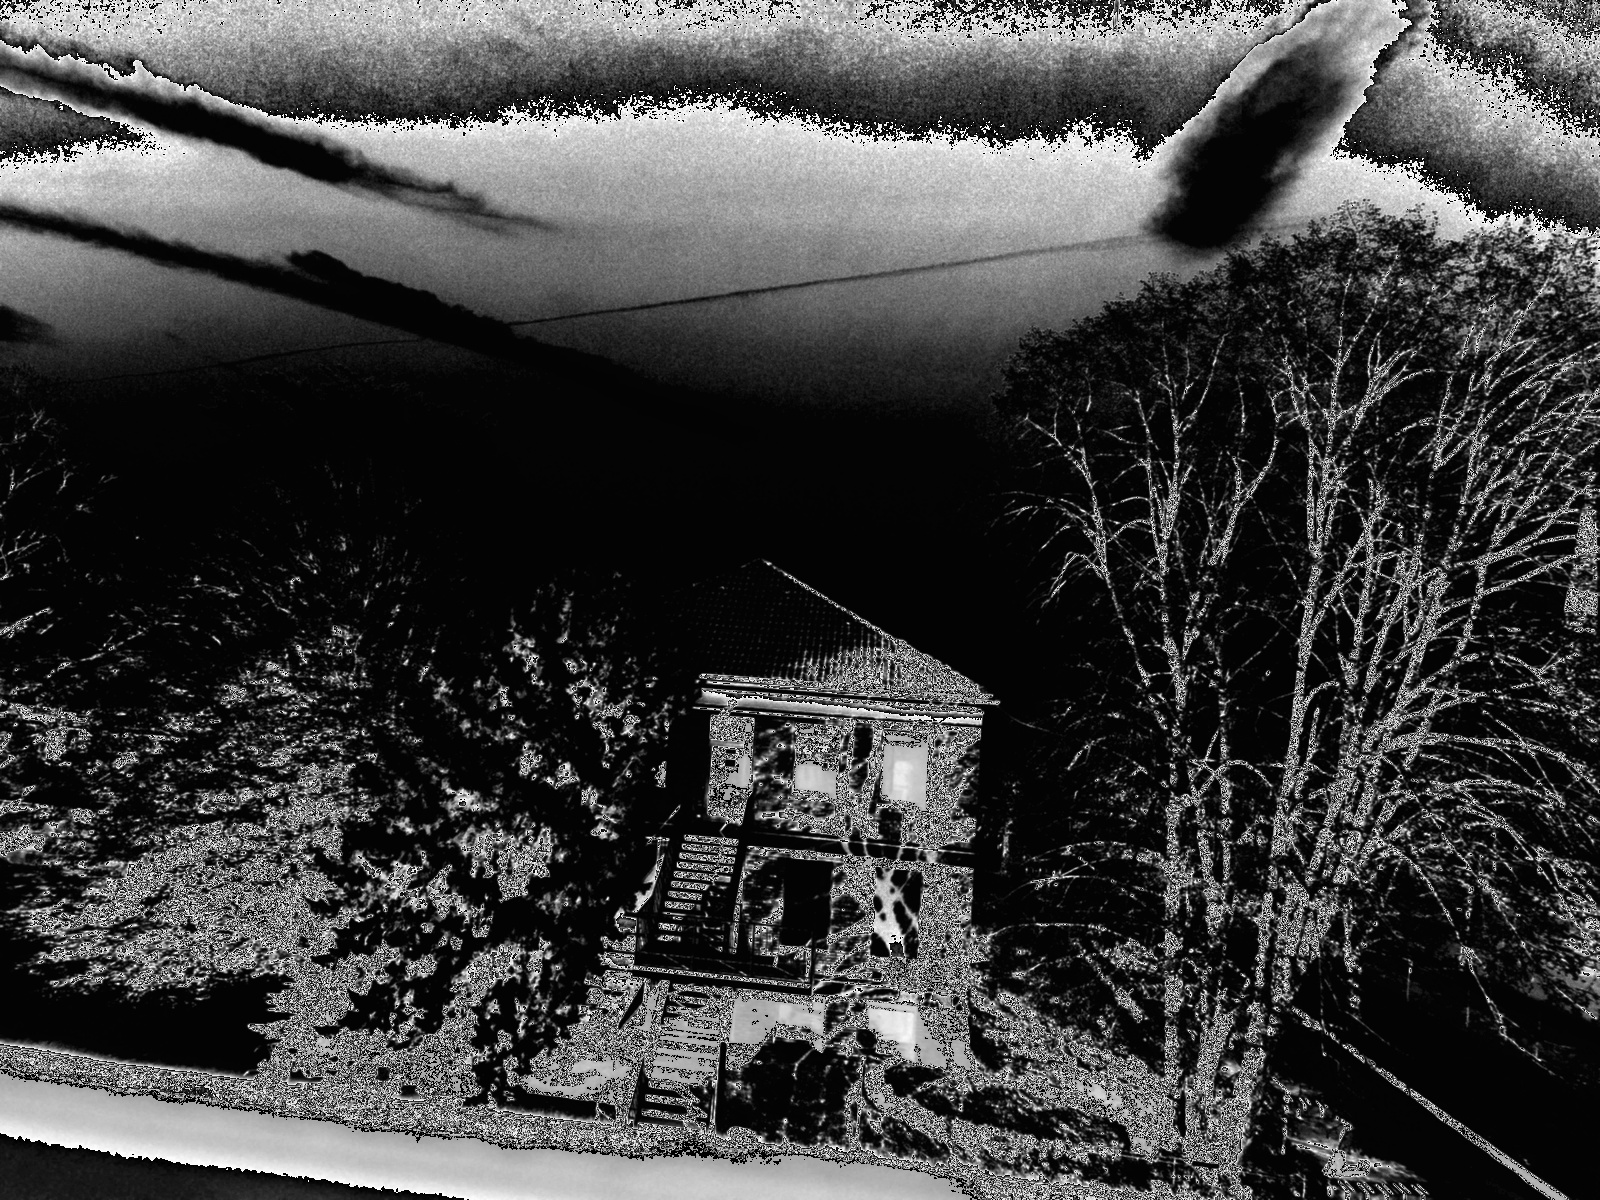
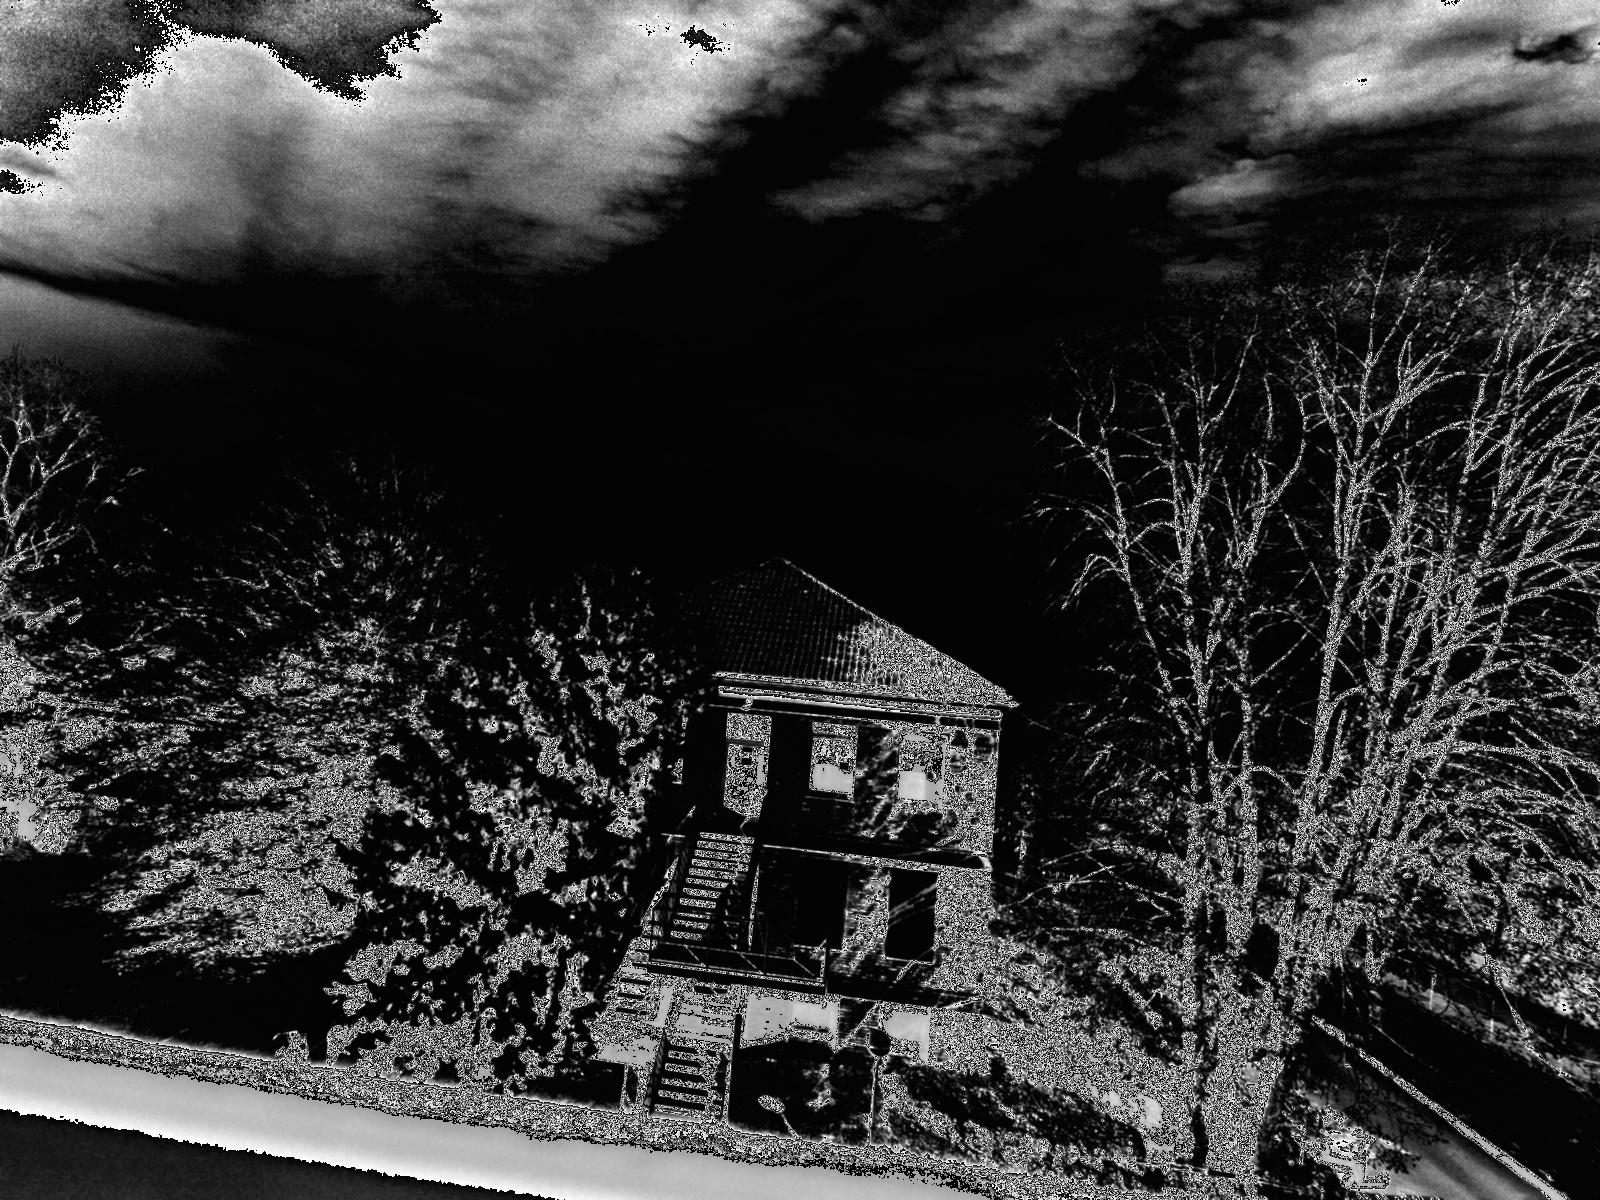
NDVI Reload

diff --git a/app_client/js/functions.js b/app_client/js/functions.js
@@ -28,7 +28,8 @@ function capture() {
         customClass: "swalCc",
         buttonsStyling: false,
       });
-      $(".processing").css("visibility", "hidden");      
+      $(".processing").css("visibility", "hidden");  
+      reload();    
     },
     error: function () {      
       swal({
@@ -41,4 +42,9 @@ function capture() {
     },
     timeout: 0,
   });
+}
+
+function reload(){
+  var url = $("#image").attr("src");
+  $("#image").attr("src", url + `?v=${new Date().getTime()}`);
 }
